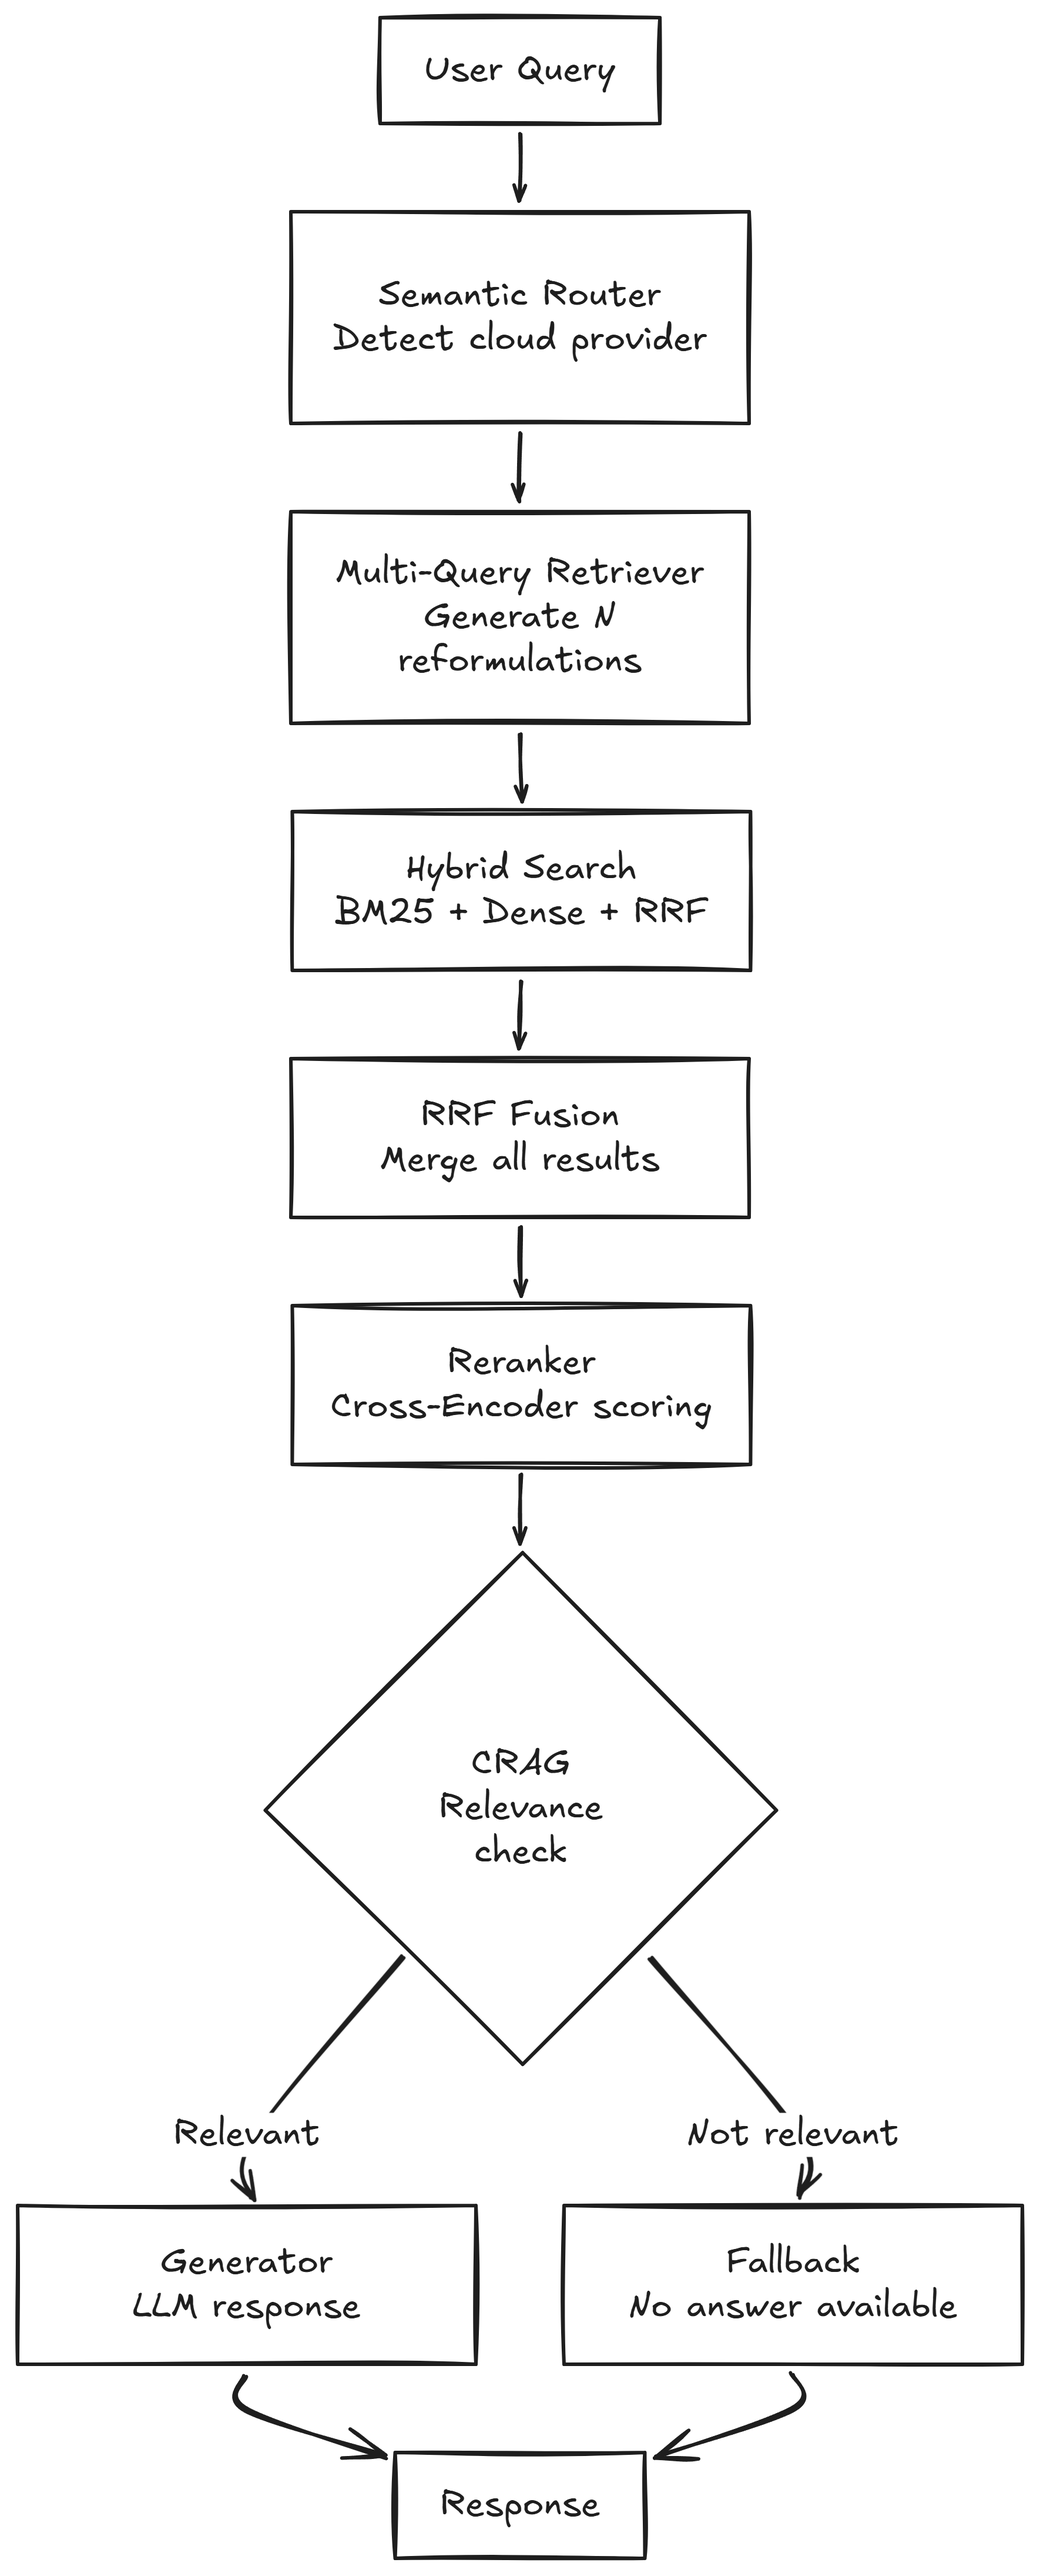
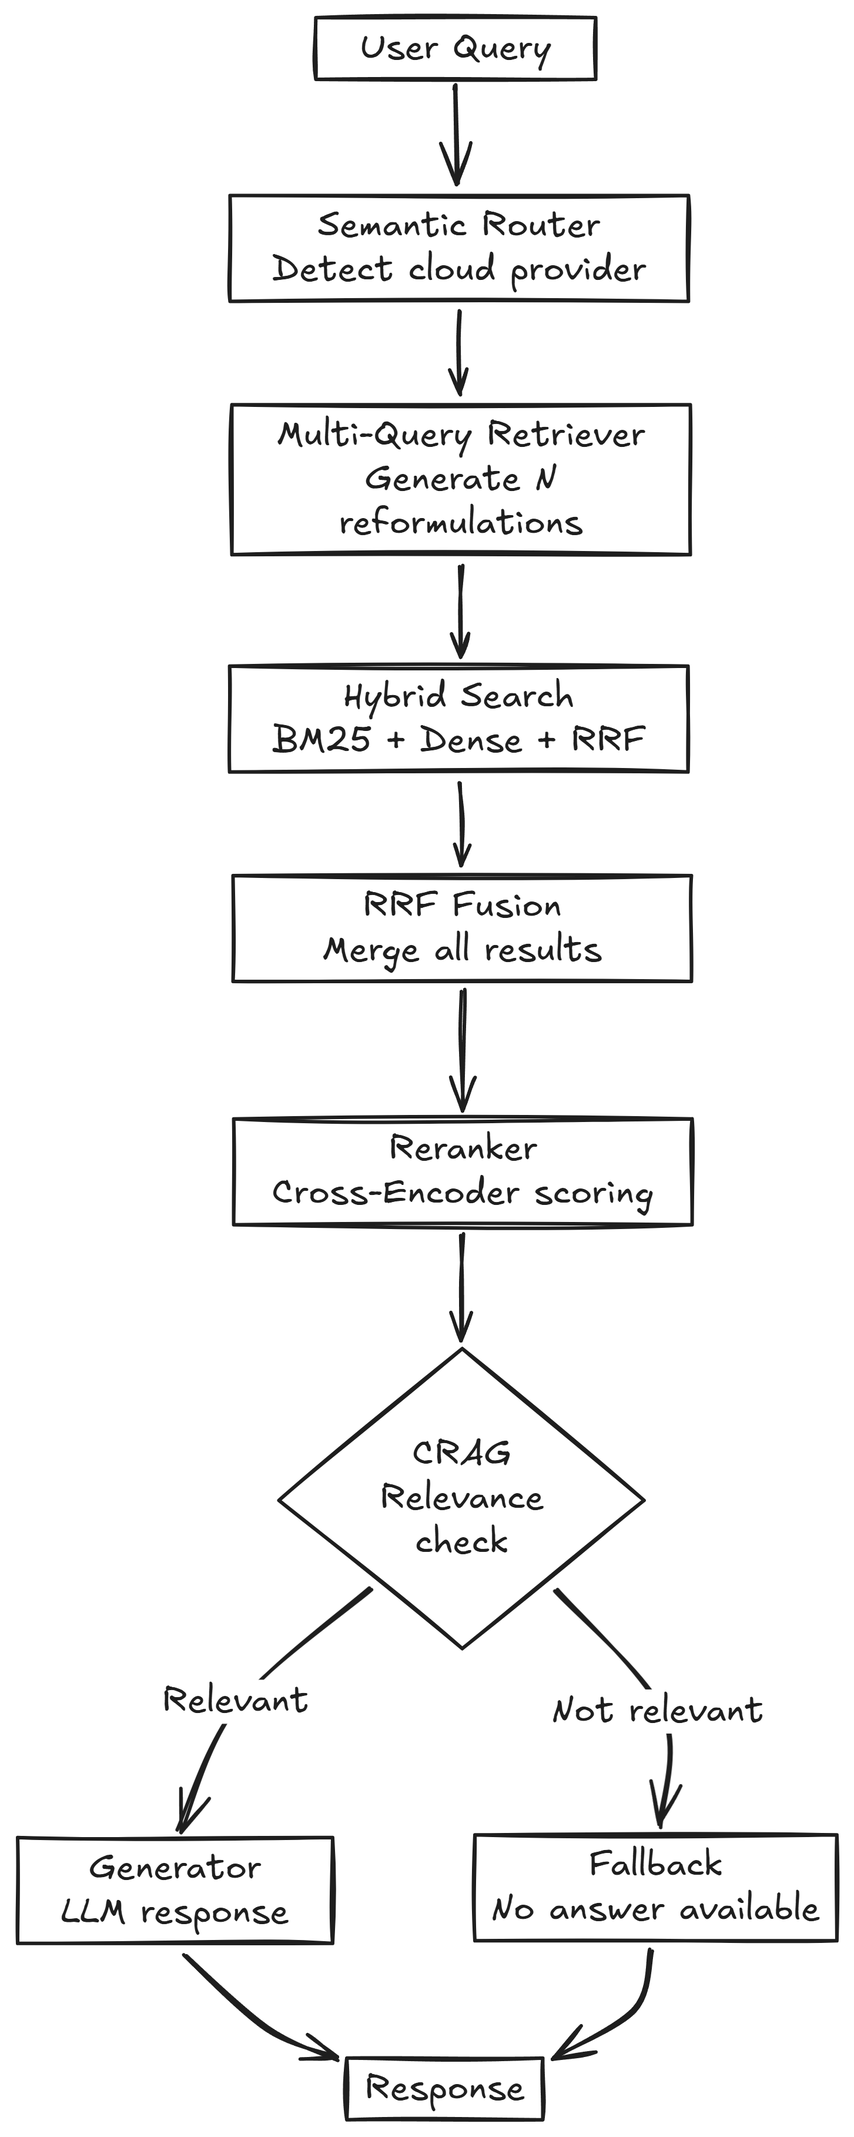
core: update config file

diff --git a/backend/src/utils/config.py b/backend/src/utils/config.py
@@ -10,6 +10,7 @@ Functions:
 
 from pathlib import Path
 from pydantic import BaseModel
+from typing import List
 import yaml
 
 
@@ -41,6 +42,9 @@ class LLMConfig(BaseModel):
 class MultiQueryConfig(BaseModel):
     n_queries: int
 
+class EmbeddingModelConfig(BaseModel):
+    name: str
+    dim: int
 
 class BenchmarkConfig(BaseModel):
     cloud_docs_path: str
@@ -48,7 +52,7 @@ class BenchmarkConfig(BaseModel):
     queries_path: str
     n_runs: int
     top_k: int
-
+    embedding_models: List[EmbeddingModelConfig]
 
 class PathsConfig(BaseModel):
     data_raw: str
